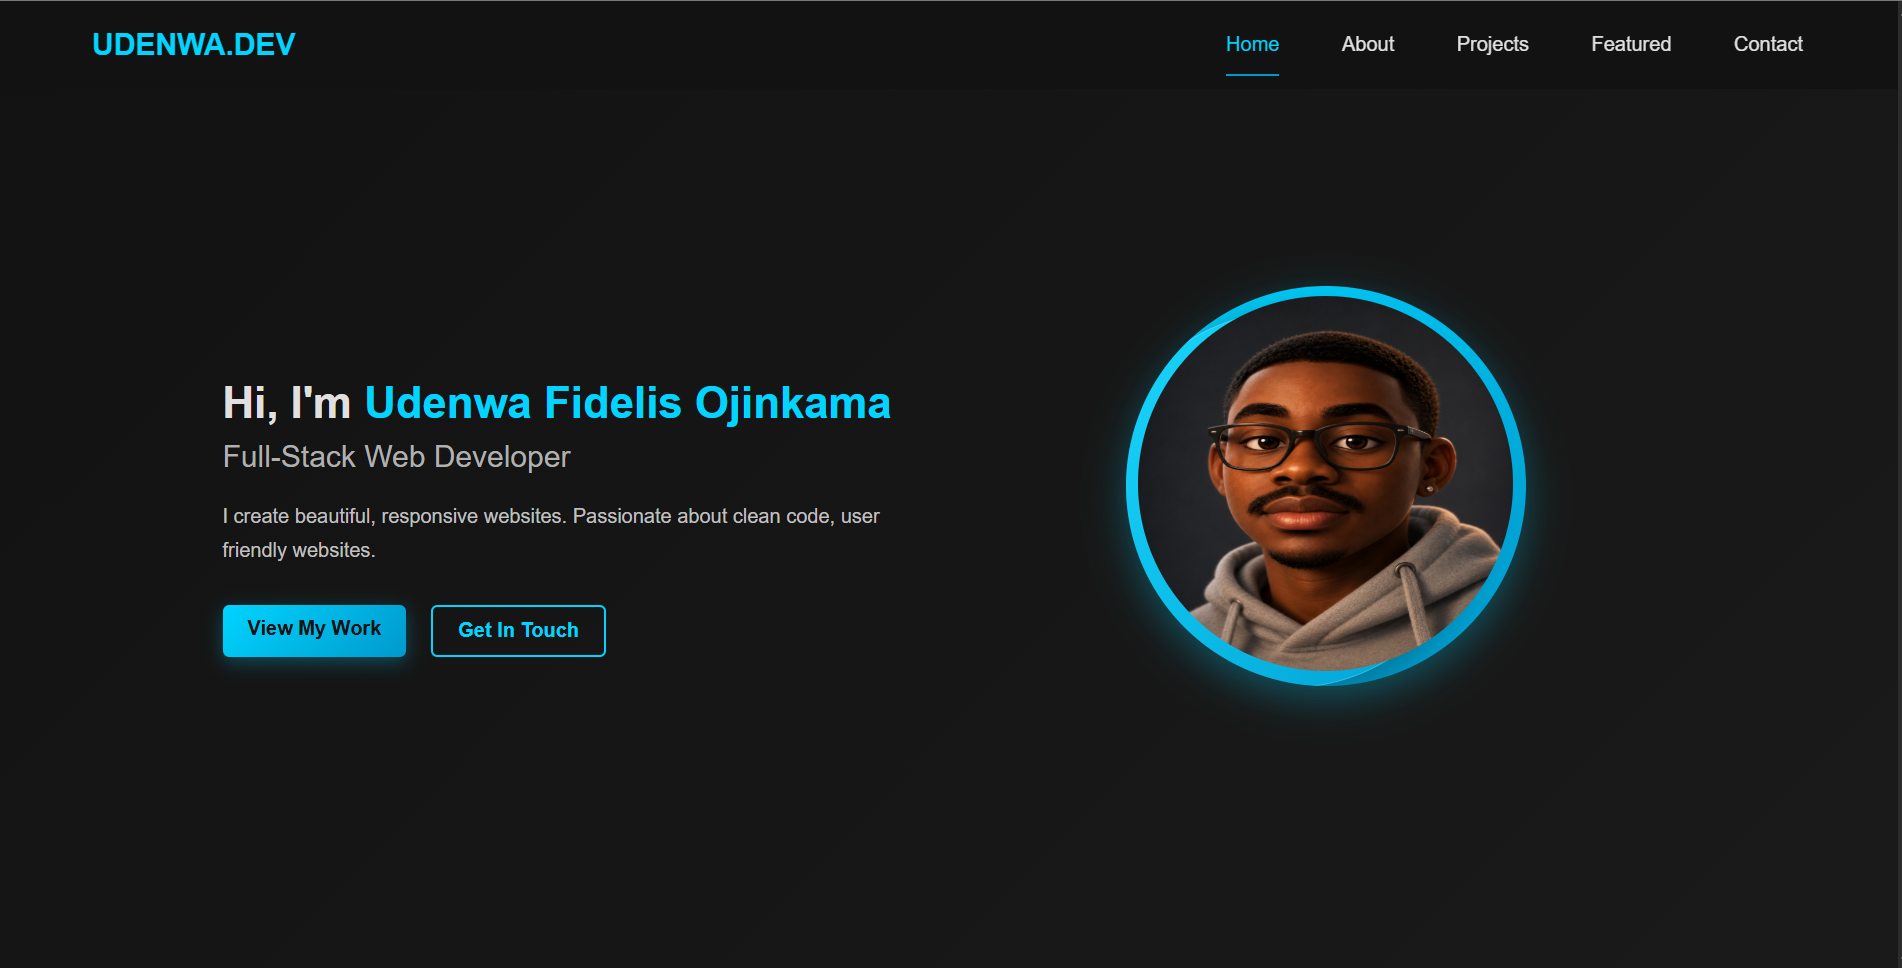
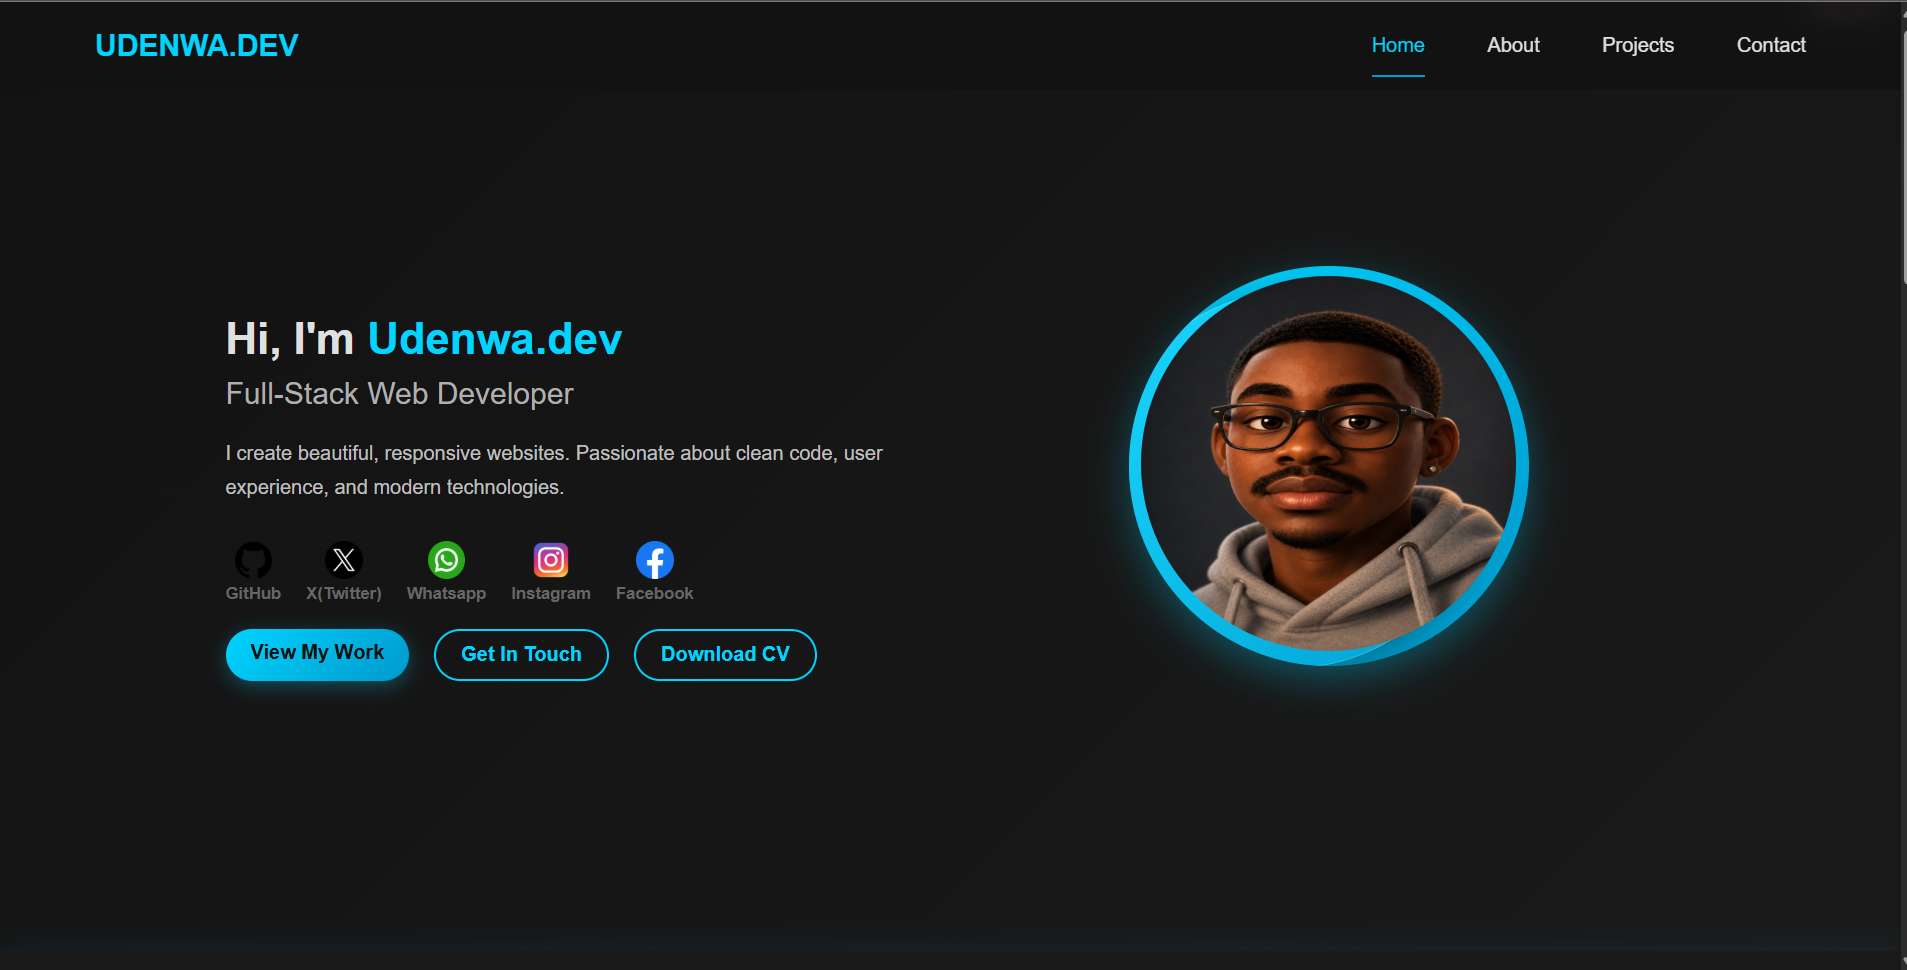
little change

diff --git a/index.html b/index.html
@@ -59,7 +59,7 @@
                 <div class="hero-buttons">
                     <a href="#projects" class="btn btn-primary">View My Work</a>
                     <a href="#contact" class="btn btn-secondary">Get In Touch</a>
-                    <a href="assets/cv.pdf" class="btn btn-download"  download="Fidelis_Udenwa_CV.pdf">Download CV</a>
+                    <a href="assets/Udenwa-CV/Udenwa_CV.docx" class="btn btn-download"  download="Udenwa_CV.docx">Download CV</a>
                     <!-- <a href="#featured" class="btn btn-primary">View My Work</a> -->
                 </div>
         
@@ -184,7 +184,10 @@
                     <img src="./assets/Backgroundimage/portfolio.png" alt="portfolio image">
                     <h3>My porfolio</h3>
                     <p> On it already</p>
-                    <div class="live">live</div>
+                    <span class="live-badge">
+                        <span class="live-dot"></span>
+                        Live
+                    </span>
                 </a>
 
                 <!-- project 2 -->
@@ -192,13 +195,21 @@
                     <img src="./assets/image/hkai.jpeg" alt="HKAI.SITE Logo" alt="Project 1">
                     <h3>HKAI.SITE</h3>
                     <p>AI Learning Companion</p>
+                    <span class="live-badge">
+                        <span class="live-dot"></span>
+                        Live
+                    </span>
                 </a>
 
-                <!--project 3
+                <!-- project 3
                 <a href="https://your-projects3-link.com" target="_blank" class="project-card">
                     <img src="./assets/Backgroundimage/Time.jpg" alt="Project 1">
                     <h3>Project Title 3</h3>
                     <p>Short description of the project goes here.</p>
+                    <span class="demo-badge">
+                        <span class="demo-dot"></span>
+                        Demo
+                    </span>
                 </a>
 
                 project 4
@@ -206,6 +217,9 @@
                     <img src="./assets/Backgroundimage/black and white.jpg" alt="Project 1">
                     <h3>Project Title 4</h3>
                     <p>Short description of the project goes here.</p>
+                     <span class="demo-badge">
+                        <span class="demo-dot">Demo</span>
+                    </span>
                 </a>
 
                 project 5
@@ -296,18 +310,3 @@
     
  </body>
  </html>
- <p>
-                    I'm Udenwa Fidelis Ojinkama, a full-stack web developer based in Nigeria.
-                    With a strong passion for coding and a love for creating innovative web solutions, 
-                    I specialize in building responsive and user-friendly websites.
-                    I love creating digital experiences that are both beautiful and functional.
-                    When I'm not coding, you can find me exploring new technologies, web3 activities and learing new skills.
-                    do well to check out my git for more projects and contributions to the web development community.
-                <br><br>
-                    My journey in web development started out of curiosity on how websites works,
-                    and it has evolved into a career where I get to build amazing things everyday.
-                </p>
- 
- 
-
- 

diff --git a/style.css b/style.css
@@ -502,46 +502,6 @@
             opacity: 0.5;
         }
 
-        /* featured */
-
-        .featured {
-            text-align: center;
-            margin-bottom: 50px
-        }
-        .featured_container{
-            width: 100%;
-            height: 80vh;
-            margin: 0 auto;
-            max-width: 1400px;
-            display: flex;
-            flex-wrap: wrap;
-            justify-content: center;
-            align-items: center;
-            gap: 30px;
-            overflow-y: auto;       
-            padding: 20px 0;
-        }
-
-        .featured_container::-webkit-scrollbar {
-                width: 2px;
-        }
-
-        .featured_container::-webkit-scrollbar-track {
-            background: transparent;
-        }
-
-        .featured_container::-webkit-scrollbar-thumb {
-        
-            display: none;
-        }
-
-        .featured_container::-webkit-scrollbar-thumb:hover {
-            background: #007aa3;
-        }
-
-        .featured_container::-webkit-scrollbar-thumb:active {
-            background: #005f7f;
-        }
         .card{
             width: 400px;
             height: 300px;
@@ -639,6 +599,50 @@
         .project-card p{
             font-size: 0.9rem;
             color: #666;
+        }
+
+        .project-card .live-badge{
+            position: absolute;
+            top: 10px;
+            right: 10px;
+            display: inline-flex;
+            align-items: center;
+            gap: 6px;
+            background: #c1f7c1;
+            color: #1f7920;
+            font-size: 12px;
+            font-weight: 600;
+            padding: 5px 12px 5px 8px;
+            border-radius: 20px;
+        }
+        .project-card .live-dot{
+            width: 7px;
+            height: 7px;
+            border-radius: 50%;
+            background: #1f7920;
+            animation: pluse 1.4s ease-in-out infinite; 
+
+        }
+        .project-card .demo-badge{
+            position: absolute;
+            top: 10px;
+            right: 10px;
+            display: inline-flex;
+            align-items: center;
+            gap: 6px;
+            background: #f7c1c1;
+            color: #791f1f;
+            font-size: 12px;
+            font-weight: 600;
+            padding: 5px 12px 5px 8px;
+            border-radius: 20px;
+        }
+        .project-card .demo-dot{
+            width: 7px;
+            height: 7px;
+            border-radius: 50%;
+            background: #e24b4a;
+            animation: pluse 1.4s ease-in-out infinite; 
         }
 
         /* contact */
@@ -754,6 +758,11 @@
   0%   { transform: translateY(0px) rotate(-2deg); }
   50%  { transform: translateY(-22px) rotate(1deg); }
   100% { transform: translateY(0px) rotate(-2deg); }
+}
+@keyframes pluse {
+  0%   { opacity: 1; }
+  50%  { opacity: 0.25;}
+  
 }
 
 @media (max-width: 600px) {
